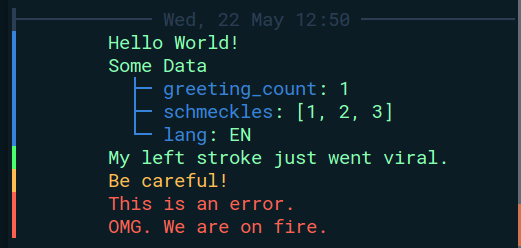
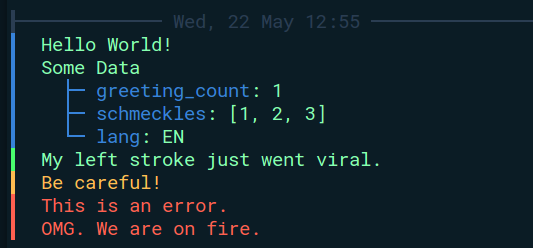
...

diff --git a/logkit/logger.py b/logkit/logger.py
@@ -37,7 +37,7 @@ class Logger:
 
     # DEFAULTS
     DEFAULT_ENV_PATH = "logkit.env"
-    COLUMN_PADDING: int = 8  # Minimum width of column when writing to console.
+    COLUMN_PADDING: int = 2  # Minimum width of column when writing to console.
 
     # Config parsing.
     TRUE_VALUES = ("1", "on", "true")
